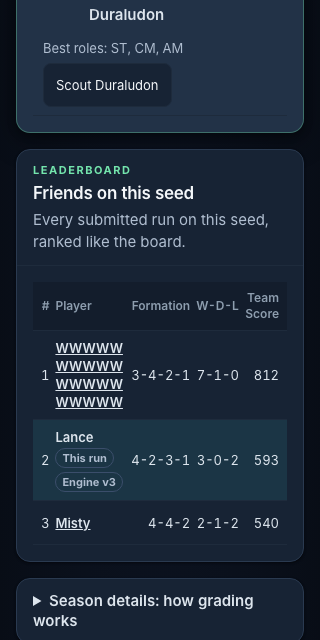
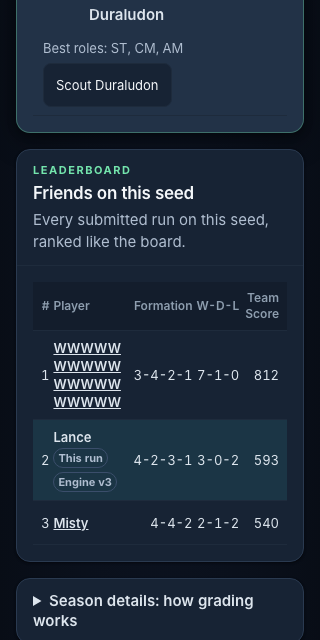
fix(leaderboard): fit the seed table at 320px on Linux font metrics
Hosted CI measured the seed table 3px wider than its wrapper at 320px.
Cell side padding goes from 3 to 2px and tag side padding from 6 to 4px,
which lowers the table's minimum width from 254 to about 239px with no
copy or column change.

Claude-Session: https://claude.ai/code/session_0188HGo7VZKX4yR7NR5KT7Mc

diff --git a/src/components/leaderboard/SeedBoard.module.css b/src/components/leaderboard/SeedBoard.module.css
@@ -3,7 +3,7 @@
 }
 .table th,
 .table td {
-  padding: 8px 3px;
+  padding: 8px 2px;
   text-align: right;
 }
 .table td,
@@ -33,7 +33,7 @@
   margin-top: 2px;
 }
 .tag {
-  padding: 0 6px;
+  padding: 0 4px;
   border: 1px solid var(--border-strong);
   border-radius: 999px;
   font-size: 11px;

diff --git a/STATE.md b/STATE.md
@@ -25,6 +25,8 @@ Merges of `origin/main` into the branch (no rebase): `e54e9e2` (#131 share sheet
 
 Merge `da86f41` (#135 badge loop budget and #134 results reveal; `STATE.md` and the `ResultsView.tsx` imports conflicted, both the `SeedBoard` and `Trophy` imports kept). With the seed board now on 5e's live results, `results-reveal.spec.ts`'s no-console-error check saw two 503s from `/api/leaderboard` (the local server has no database), deterministically, 3 of 3. That spec now stubs an empty seed board, like `seed-board.spec.ts`; it passed 14 of 14. Full Playwright suite after that (`CI=1`, `--retries=0`, 4 workers): 1,047 passed, 67 skipped, 1 failed, an `iphone-14` `mobile-draft` test with the harness error "Cannot find parent object browser", which passed 3 of 3 on a rerun.
 
+Hosted CI at `3eac05a` (both receipts) failed shard e2e (3): `seed-board.spec.ts` at 320 px measured the seed table 3 px wider than its wrapper, on the attempt and its retry (run 39364653413). Locally it fit, with 3 px to spare on macOS fonts; measured at narrower widths the same table overflowed by 7 px at 310 and 17 px at 300. The floor came from fixed columns: the nowrap "Engine v3" tag (player column 74 px) and the "Formation" header (65 px). Cell side padding goes from 3 to 2 px and tag side padding from 6 to 4 px, with no copy or column change: the table's minimum drops from 254 to about 239 px, so it fits down to 306 px locally (overflow 5 px at 300). The 320, 360 and 390 seed table screenshots were regenerated. The PR was not merged at `3eac05a`; both receipts were rerun at the fix head.
+
 Decision log: `docs/decisions/seed-boards.md`. Browser proof: `docs/reports/seed-boards/` (seed table at 390, 360 and 320, the unavailable state, All engines at 390, 360 and 320). Merge status, the squash SHA and the reviewer receipt go into the next STATE update.
 
 ## Results reveal and sync

diff --git a/docs/decisions/seed-boards.md b/docs/decisions/seed-boards.md
@@ -239,3 +239,20 @@ No migration, so no Neon step changes the schema. Read-only checks:
 - At 320 px the existing coach chips clip "Uncoached" and "Coached" inside their 3-column grid
   (`all-engines-320x640.png`). It was there before this row; the chips are unchanged.
 - Add `(mode, seed)` to an index once `leaderboard_entries` passes 10,000 rows.
+
+## Narrow table on Linux fonts (fix after review)
+
+Hosted CI at `3eac05a` failed `seed-board.spec.ts` at 320 px: the seed table was 3 px wider than
+its wrapper on Linux font metrics, deterministically (attempt and retry). macOS fonts fit with 3 px
+to spare, which is why local runs passed. Real Android phones use metrics close to the CI fonts, so
+this is a product fix, not a test fix.
+
+Measured locally before the fix: overflow 0 at 320, 7 px at 310, 17 px at 300. The floor is set by
+the nowrap "Engine v3" tag (player column 74 px) and the "Formation" header (65 px). Letting the
+player cell wrap changed nothing, because its tbody `th` already wraps.
+
+Decision: cell side padding 3 to 2 px and tag side padding 6 to 4 px. The table's minimum width
+drops from 254 to about 239 px (overflow 0 down to 306 px, 5 px at 300). Rejected: a shorter
+"Formation" header or engine tag (copy the spec fixed), hiding a column at narrow widths (drops
+data), and two-line pill tags (the stadium shape breaks).
+
